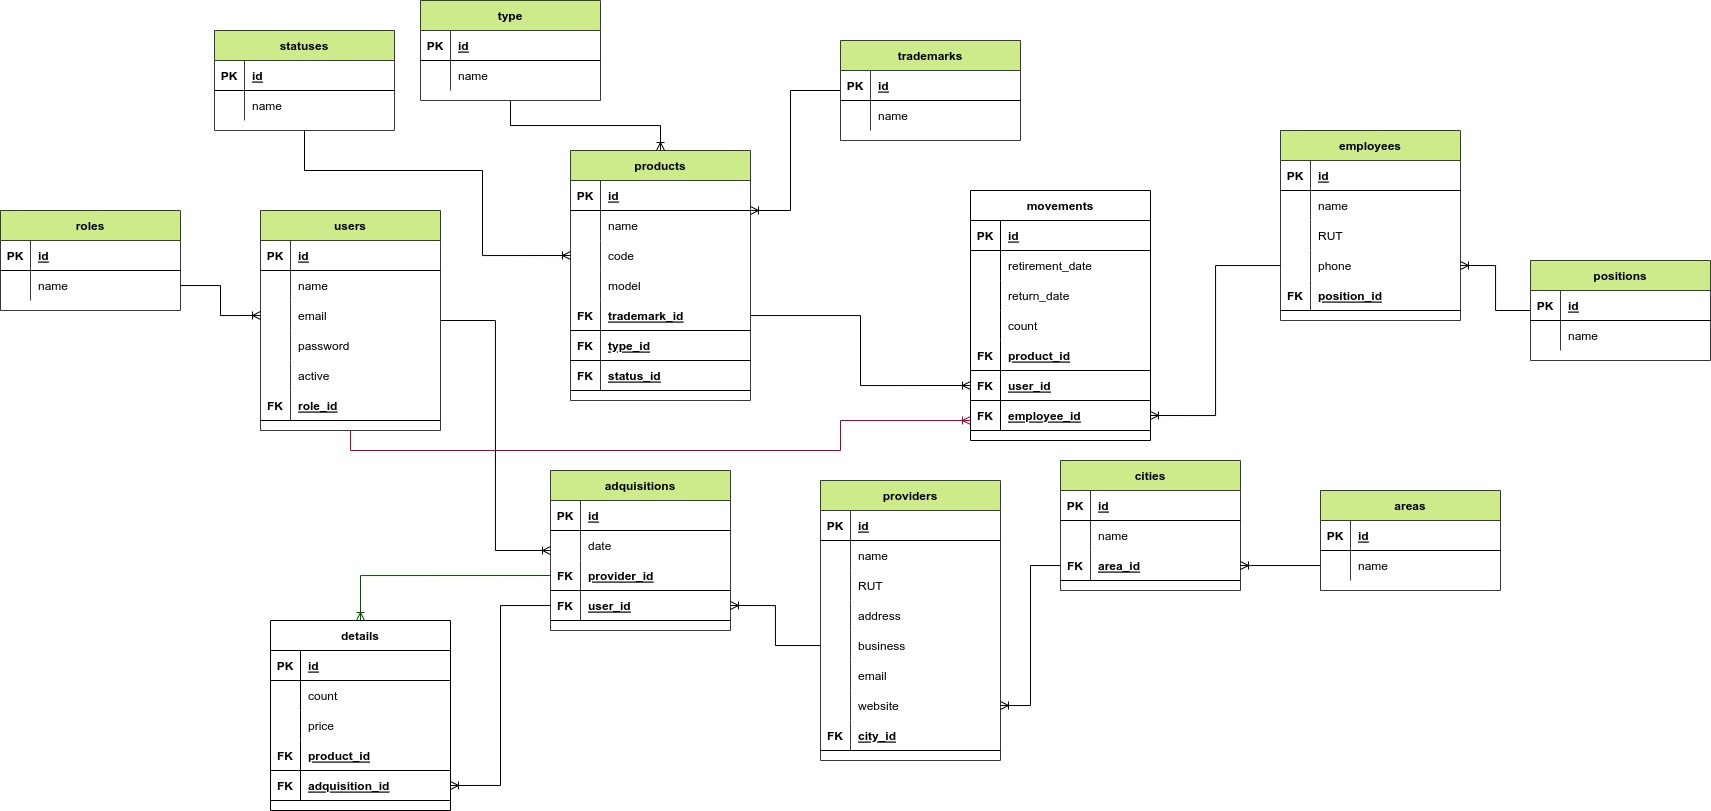
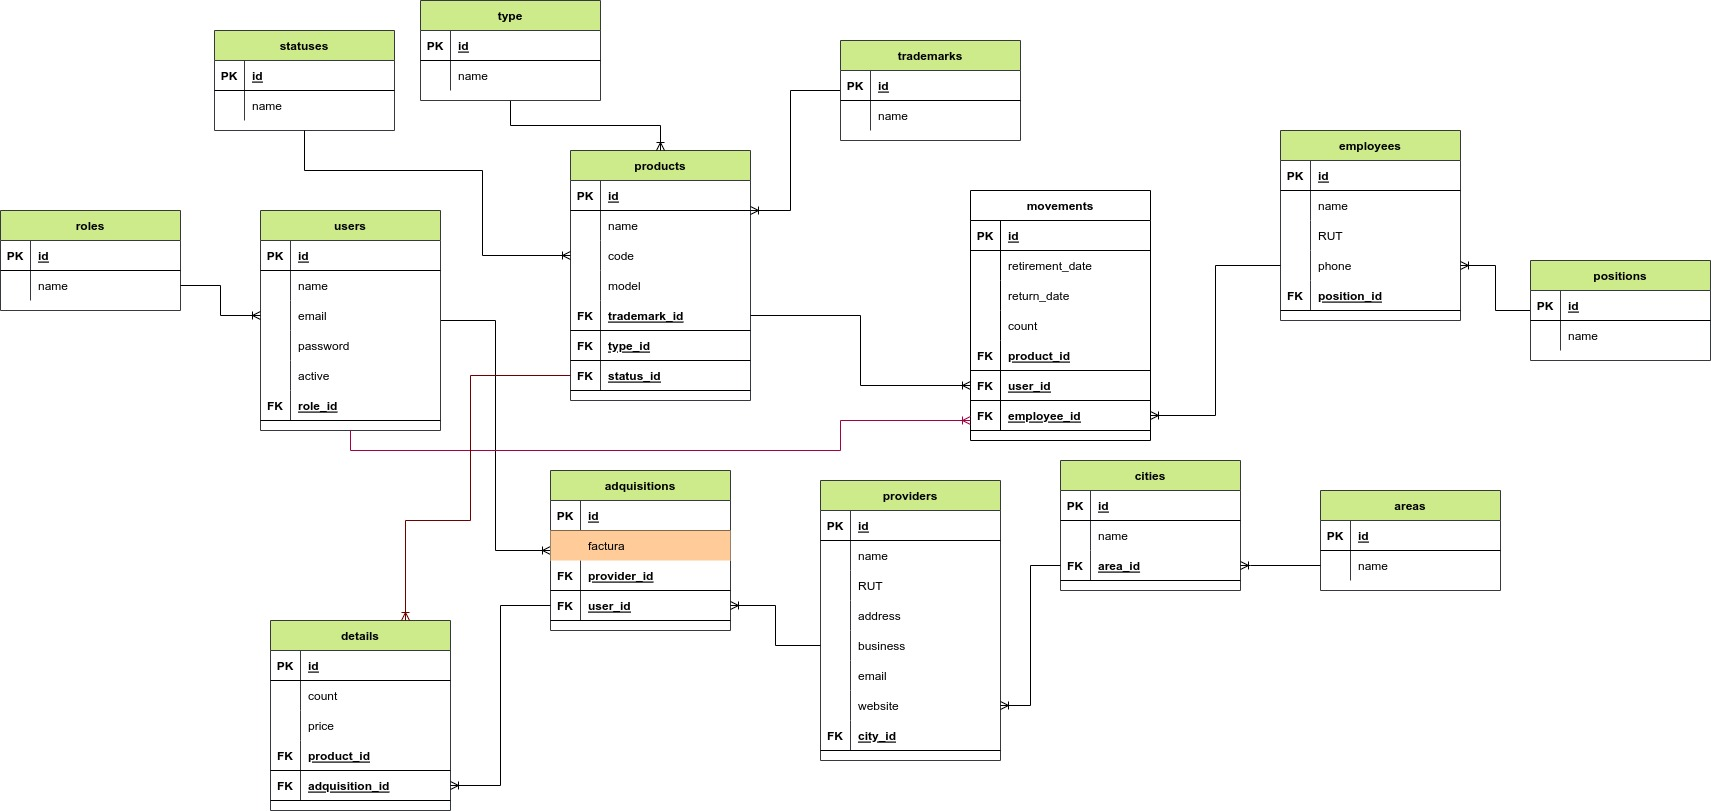
Implementacion de modulo details vista show de detail

Changed region(s): [[0.3098, 0.6473, 0.4337, 0.709], [0.1549, 0.7398, 0.2788, 0.8015]]

diff --git a/resources/views/adquisitions/show.blade.php b/resources/views/adquisitions/show.blade.php
@@ -1,30 +1,69 @@
 <x-page :module=$module :subject=$subject>
-    <div class="col-md-6">
-        <table class="table table-hover">
-            <tr>
-                <th>Id:</th>
-                <td>{{ $adquisition->id }}</td>
-            </tr>
-            <tr>
-                <th>Proveedor:</th>
-                <td>{{ $adquisition->provider->name }}</td>
-            </tr>
-            <tr>
-                <th>Creado por:</th>
-                <td>{{ $adquisition->user->name }}</td>
-            </tr>
-            <tr>
-                <th>Fecha creación:</th>
-                <td>{{ $adquisition->created_at }}</td>
-            </tr>
-            <tr>
-                <th>Fecha actualización:</th>
-                <td>{{ $adquisition->updated_at }}</td>
-            </tr>
-        </table>
-        <p>
-            <x-buttonBack :back=$back></x-buttonBack>
-            <a href="{{ route('details.addDetail', $adquisition) }}" class="btn btn-outline-success">Agregar Detalle</a>
-        </p>
+    <div class="row">
+        <div class="col-md-5">
+            <table class="table table-hover">
+                <tr>
+                    <th>Id:</th>
+                    <td>{{ $adquisition->id }}</td>
+                </tr>
+                <tr>
+                    <th>Proveedor:</th>
+                    <td>{{ $adquisition->provider->name }}</td>
+                </tr>
+                <tr>
+                    <th>Creado por:</th>
+                    <td>{{ $adquisition->user->name }}</td>
+                </tr>
+                <tr>
+                    <th>Fecha creación:</th>
+                    <td>{{ $adquisition->created_at }}</td>
+                </tr>
+                <tr>
+                    <th>Fecha actualización:</th>
+                    <td>{{ $adquisition->updated_at }}</td>
+                </tr>
+            </table>
+            <p>
+                <x-buttonBack :back=$back></x-buttonBack>
+                <a href="{{ route('details.addDetail', $adquisition) }}" class="btn btn-outline-success">Agregar Detalle</a>
+            </p>
+        </div>
+        <div class="col-md-7">
+            @if (isset($adquisition->details) && count($adquisition->details))
+                <table class="table table-hover" id="table">
+                    <thead>
+                        <tr>
+                            <th>Id</th>
+                            <th>Producto</th>
+                            <th>Cantidad</th>
+                            <th>Precio</th>
+                            <th>Total</th>
+                        </tr>
+                    </thead>
+                    <tbody>
+                        @foreach ($adquisition->details as $detail)
+                            <tr>
+                                <td>{{ $detail->id }}</td>
+                                <td>
+                                    <a href="{{ route('details.show', $detail) }}">
+                                        {{ $detail->product->name }}
+                                    </a>
+                                </td>
+                                <td>{{ $detail->count }}</td>
+                                <td>$ {{ number_format($detail->price,0,',','.') }}</td>
+                                <td>
+                                    @php
+                                        $total = $detail->count * $detail->price;
+                                    @endphp
+                                    $ {{ number_format($total,0,',','.') }}
+                                </td>
+                            </tr>
+                        @endforeach
+                    </tbody>
+                </table>
+            @else
+                <p class="text-info">No hay detalles asociados</p>
+            @endif
+        </div>
     </div>
 </x-page>

diff --git a/resources/views/details/show.blade.php b/resources/views/details/show.blade.php
@@ -1,0 +1,46 @@
+<x-page :module=$module :subject=$subject>
+    <div class="col-md-6">
+        <table class="table table-hover">
+            <tr>
+                <th>Id:</th>
+                <td>{{ $detail->id }}</td>
+            </tr>
+            <tr>
+                <th>Producto:</th>
+                <td>{{ $detail->product->name }}</td>
+            </tr>
+            <tr>
+                <th>Cantidad:</th>
+                <td>{{ number_format($detail->count) }}</td>
+            </tr>
+            <tr>
+                <th>Precio:</th>
+                <td>$ {{ number_format($detail->price,0,',','.') }}</td>
+            </tr>
+            <tr>
+                <th>Total:</th>
+                <td>
+                    @php
+                        $total = $detail->count * $detail->price;
+                    @endphp
+                    $ {{ number_format($total,0,',','.') }}
+                </td>
+            </tr>
+            <tr>
+                <th>Factura N°:</th>
+                <td></td>
+            </tr>
+            <tr>
+                <th>Fecha creación:</th>
+                <td>{{ $detail->created_at }}</td>
+            </tr>
+            <tr>
+                <th>Fecha actualización:</th>
+                <td>{{ $detail->updated_at }}</td>
+            </tr>
+        </table>
+        <p>
+            <x-buttonBack :back=$back></x-buttonBack>
+        </p>
+    </div>
+</x-page>

diff --git a/app/Http/Controllers/DetailController.php b/app/Http/Controllers/DetailController.php
@@ -23,7 +23,12 @@ class DetailController extends Controller
      */
     public function show(Detail $detail)
     {
-        //
+        return view('details.show', [
+            'detail' => $detail,
+            'module' => 'Detalles de Adquisición',
+            'subject' => 'Detalle de Adquisición',
+            'back' => route('adquisitions.show', $detail->adquisition_id)
+        ]);
     }
 
     public function addDetail(Adquisition $adquisition)

diff --git a/app/Http/Controllers/AdquisitionController.php b/app/Http/Controllers/AdquisitionController.php
@@ -4,6 +4,7 @@ namespace App\Http\Controllers;
 
 use App\Models\Adquisition;
 use App\Models\Provider;
+use App\Models\Detail;
 use Illuminate\Http\Request;
 
 class AdquisitionController extends Controller
